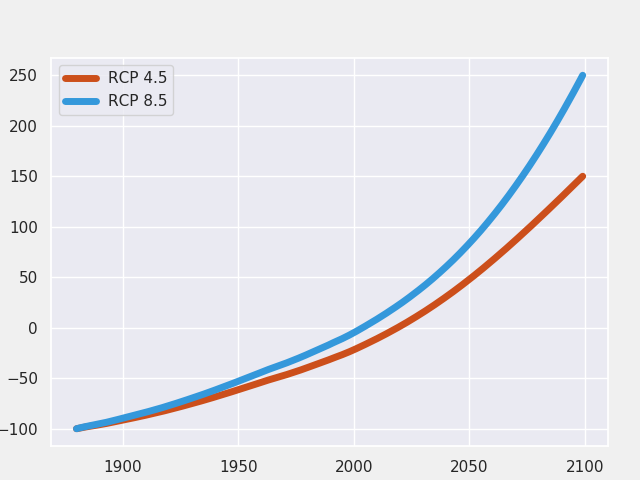
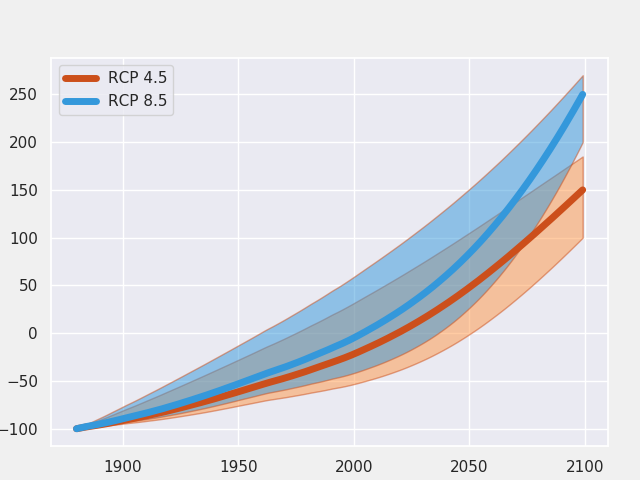
Added sea level plot

diff --git a/fortran/plot.py b/fortran/plot.py
@@ -83,7 +83,7 @@ jump = 257
 for i in range(0,len(mcmc_chain),jump):
 	temp.append(mcmc_chain[i])
 temp = np.array(temp)
-print(jump)'''
+print(jump)
 
 for i in range(16):
 	fig, ax = plt.subplots(nrows=1, ncols=1, figsize=(8,4))  # create figure & 1 axis
@@ -132,6 +132,29 @@ gmsl_out = np.interp(gmsl_out, (np.min(gmsl_out), np.max(gmsl_out)), (-100, 150)
 x = list(range(1880, 1880+len(gmsl_out)))
 plt.plot(x, gmsl_out, 'k', color='#CC4F1B', linewidth=5, label="RCP 4.5")
 
+forcingtotal = forcing_total.forcing_total(forcing=forcing, alpha_doeclim=low[7], l_project=True, begyear=mod_time[0], endyear=np.max(mod_time))
+doeclim_out = doeclimF.doeclimF(forcingtotal, mod_time, S=low[5], kappa=low[6])
+temp_out = np.array((doeclim_out.loc[(doeclim_out["time"]>=1880) & (doeclim_out["time"]<=2100), "temp"]).tolist())
+temp_out -= low[8]
+gmsl_outl = gmsl_model.gmsl_model(med, temp_out, 1)
+gmsl_outl = np.interp(gmsl_outl, (np.min(gmsl_outl), np.max(gmsl_outl)), (-100, 185))
+#plt.rcParams.update(plt.rcParamsDefault)
+x = list(range(1880, 1880+len(gmsl_out)))
+
+forcingtotal = forcing_total.forcing_total(forcing=forcing, alpha_doeclim=high[7], l_project=True, begyear=mod_time[0], endyear=np.max(mod_time))
+doeclim_out = doeclimF.doeclimF(forcingtotal, mod_time, S=high[5], kappa=high[6])
+temp_out = np.array((doeclim_out.loc[(doeclim_out["time"]>=1880) & (doeclim_out["time"]<=2100), "temp"]).tolist())
+temp_out -= high[8]
+gmsl_outh = gmsl_model.gmsl_model(med, temp_out, 1)
+gmsl_outh = np.interp(gmsl_outh, (np.min(gmsl_outh), np.max(gmsl_outh)), (-100, 100))
+#plt.rcParams.update(plt.rcParamsDefault)
+x = list(range(1880, 1880+len(gmsl_out)))
+
+plt.fill_between(x, gmsl_outl, gmsl_outh,
+    alpha=0.5, edgecolor='#CC4F1B', facecolor='#FF9848')
+
+
+
 forcing = pd.read_csv( 'data/forcing_rcp85.csv')	
 mod_time = np.array(range(1880,2100))
 
@@ -146,9 +169,28 @@ x = list(range(1880, 1880+len(gmsl_out)))
 plt.plot(x, gmsl_out, 'k', color='#3498DB', linewidth=5, label="RCP 8.5")
 #noise = [np.random.uniform(i-20, i+20) for i in gmsl_outm]
 #plt.scatter(x, noise)
+forcingtotal = forcing_total.forcing_total(forcing=forcing, alpha_doeclim=low[7], l_project=True, begyear=mod_time[0], endyear=np.max(mod_time))
+doeclim_out = doeclimF.doeclimF(forcingtotal, mod_time, S=low[5], kappa=low[6])
+temp_out = np.array((doeclim_out.loc[(doeclim_out["time"]>=1880) & (doeclim_out["time"]<=2100), "temp"]).tolist())
+temp_out -= low[8]
+gmsl_outl = gmsl_model.gmsl_model(med, temp_out, 1)
+gmsl_outl = np.interp(gmsl_outl, (np.min(gmsl_outl), np.max(gmsl_outl)), (-100, 270))
+#plt.rcParams.update(plt.rcParamsDefault)
+x = list(range(1880, 1880+len(gmsl_out)))
 
+forcingtotal = forcing_total.forcing_total(forcing=forcing, alpha_doeclim=high[7], l_project=True, begyear=mod_time[0], endyear=np.max(mod_time))
+doeclim_out = doeclimF.doeclimF(forcingtotal, mod_time, S=high[5], kappa=high[6])
+temp_out = np.array((doeclim_out.loc[(doeclim_out["time"]>=1880) & (doeclim_out["time"]<=2100), "temp"]).tolist())
+temp_out -= high[8]
+gmsl_outh = gmsl_model.gmsl_model(med, temp_out, 1)
+gmsl_outh = np.interp(gmsl_outh, (np.min(gmsl_outh), np.max(gmsl_outh)), (-100, 200))
+#plt.rcParams.update(plt.rcParamsDefault)
+x = list(range(1880, 1880+len(gmsl_out)))
+
+plt.fill_between(x, gmsl_outl, gmsl_outh,
+    alpha=0.5, edgecolor='#CC4F1B', facecolor='#3498DB')
 #plt.fill_between(x, gmsl_outl, gmsl_outh,
 #    alpha=0.5, edgecolor='#CC4F1B', facecolor='#FF9848')
 plt.legend()
 plt.savefig('gmsl.png')
-plt.show()'''
+plt.show()
